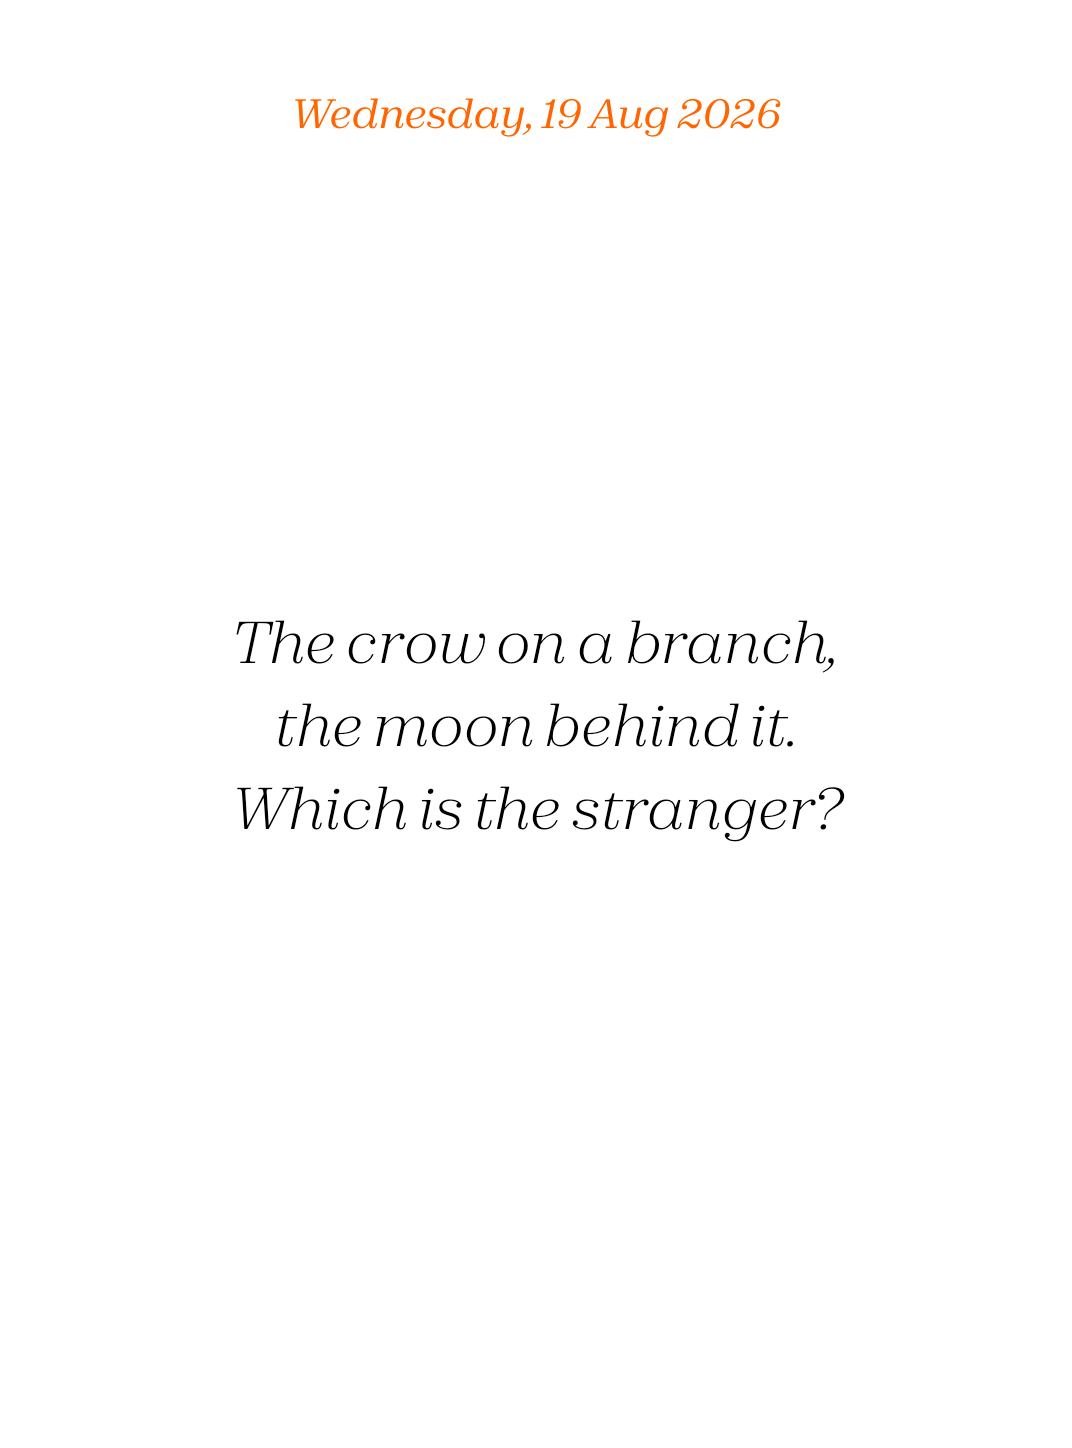
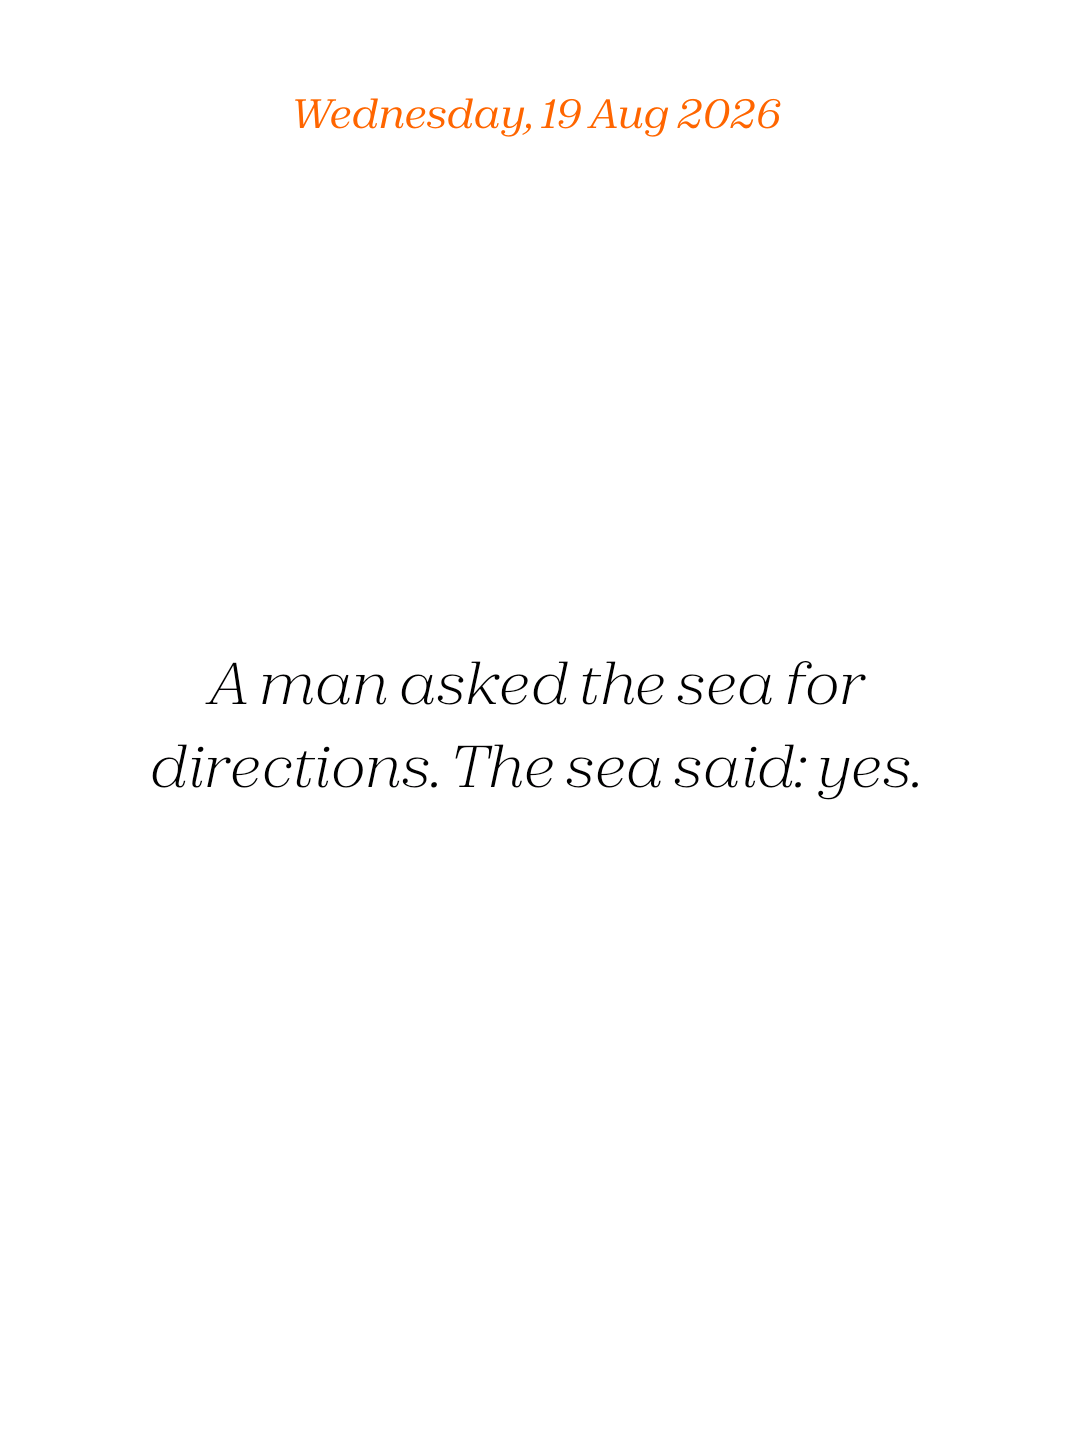
Landing page: align the pen and highlighter dots with the text; new koan screenshot

Changed region(s): [[0.2155, 0.4351, 0.8619, 0.5905], [0.1539, 0.4972, 0.1847, 0.5594]]

diff --git a/docs/index.html b/docs/index.html
@@ -116,7 +116,6 @@
       color: #111;
       padding: 0 0.18em;
       margin: 0 -0.18em;
-      border-radius: 0.25em;
       -webkit-box-decoration-break: clone;
       box-decoration-break: clone;
     }
@@ -309,6 +308,7 @@
       letter-spacing: -0.02em;
       margin: 0 0 28px;
       max-width: 18ch;
+      text-wrap-style: balance;
     }
 
     h2 em {
@@ -382,6 +382,7 @@
       font-size: 1.5rem;
       margin: 0 0 10px;
       letter-spacing: -0.01em;
+      text-wrap-style: balance;
     }
 
     .step p {
@@ -443,7 +444,9 @@
     .dot {
       display: inline-block;
       border-radius: 50%;
-      vertical-align: -0.1em;
+      /* centered on the x-height; the markup has no spaces around the dots, the margins are the gap */
+      vertical-align: middle;
+      margin: 0 0.5em;
     }
 
     .dot.pen {
@@ -657,7 +660,8 @@
           <p>That small constraint changes how you write. You stop polishing and start noticing. A crossed-out thought
             stays crossed out, next to the one that replaced it. A bad doodle is still part of the day.</p>
           <p>At midnight the page closes and a clean one begins. Yesterday is still there to read, but it’s finished.
-            <em>Today’s page is the only one you can write on.</em></p>
+            <em>Today’s page is the only one you can write on.</em>
+          </p>
         </div>
       </div>
     </div>
@@ -702,7 +706,7 @@
         </figure>
         <figure class="screen">
           <div class="frame"><img src="screenshots/past.png" width="1072" height="1448" loading="lazy"
-              alt="A past day with nothing drawn, showing its date in orange and a koan: The crow on a branch, the moon behind it. Which is the stranger?">
+              alt="A past day with nothing drawn, showing its date in orange and a koan: A man asked the sea for directions. The sea said: yes.">
           </div>
           <figcaption>A past day with nothing on it. Date at the top, koan in the middle.</figcaption>
         </figure>
@@ -712,7 +716,7 @@
 
   <div class="koan-band">
     <div class="wrap">
-      <blockquote>Not every line needs a reason. Draw one anyway.</blockquote>
+      <blockquote>What is the sound of a pen hovering?</blockquote>
       <p>One of the koans undia shows on days you left empty.</p>
     </div>
   </div>
@@ -735,9 +739,9 @@
           </tr>
           <tr>
             <th scope="row">Tap with one finger</th>
-            <td>Switch between pen and highlighter. The mark at the top right shows which is on: a small <span
-                class="dot pen" role="img" aria-label="black dot"></span> for the pen, a larger <span class="dot hl"
-                role="img" aria-label="yellow circle"></span> for the highlighter.</td>
+            <td>Switch between pen and highlighter. The mark at the top right shows which is on: a small<span
+                class="dot pen" role="img" aria-label="black dot"></span>for the pen, a larger<span class="dot hl"
+                role="img" aria-label="yellow circle"></span>for the highlighter.</td>
           </tr>
           <tr>
             <th scope="row">Swipe left or right</th>
